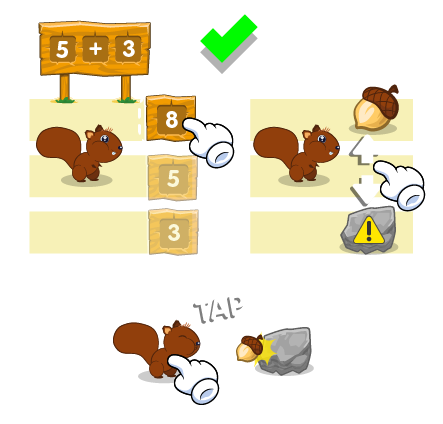
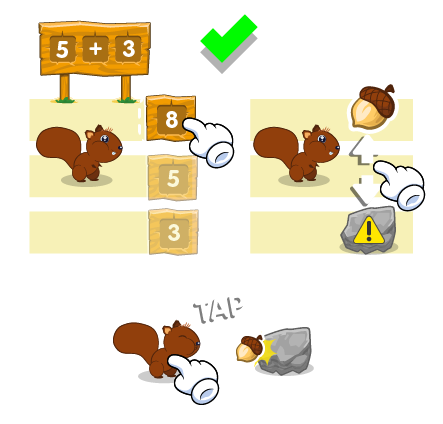
Changes for QA in acorn numbers

Changed region(s): [[0.763, 0.184, 0.9097, 0.3373], [0.5576, 0.7972, 0.6163, 0.8585]]

diff --git a/newStructure/minigames/acornNumbers/js/scenes/acorn.js b/newStructure/minigames/acornNumbers/js/scenes/acorn.js
@@ -1011,8 +1011,13 @@ var acorn = function(){
                 particleWrong.start(true, 1000, null, 3);
                 tweenTint(block, 0xffffff, 0xff5151, 500);
                 missPoint();
-                if (lives === 0)
-                    ardilla.setAnimation(["sad"]);
+                if (lives === 0){
+                    if(counterAcorn>0){
+                        ardilla.setAnimation(["sad_cachetes"]);
+                    }else{
+                        ardilla.setAnimation(["sad"]);
+                    }
+                }
                 else{
                     if(counterAcorn>0){
                         ardilla.setAnimation(["sad_cachetes","idle_cachetes"]);
